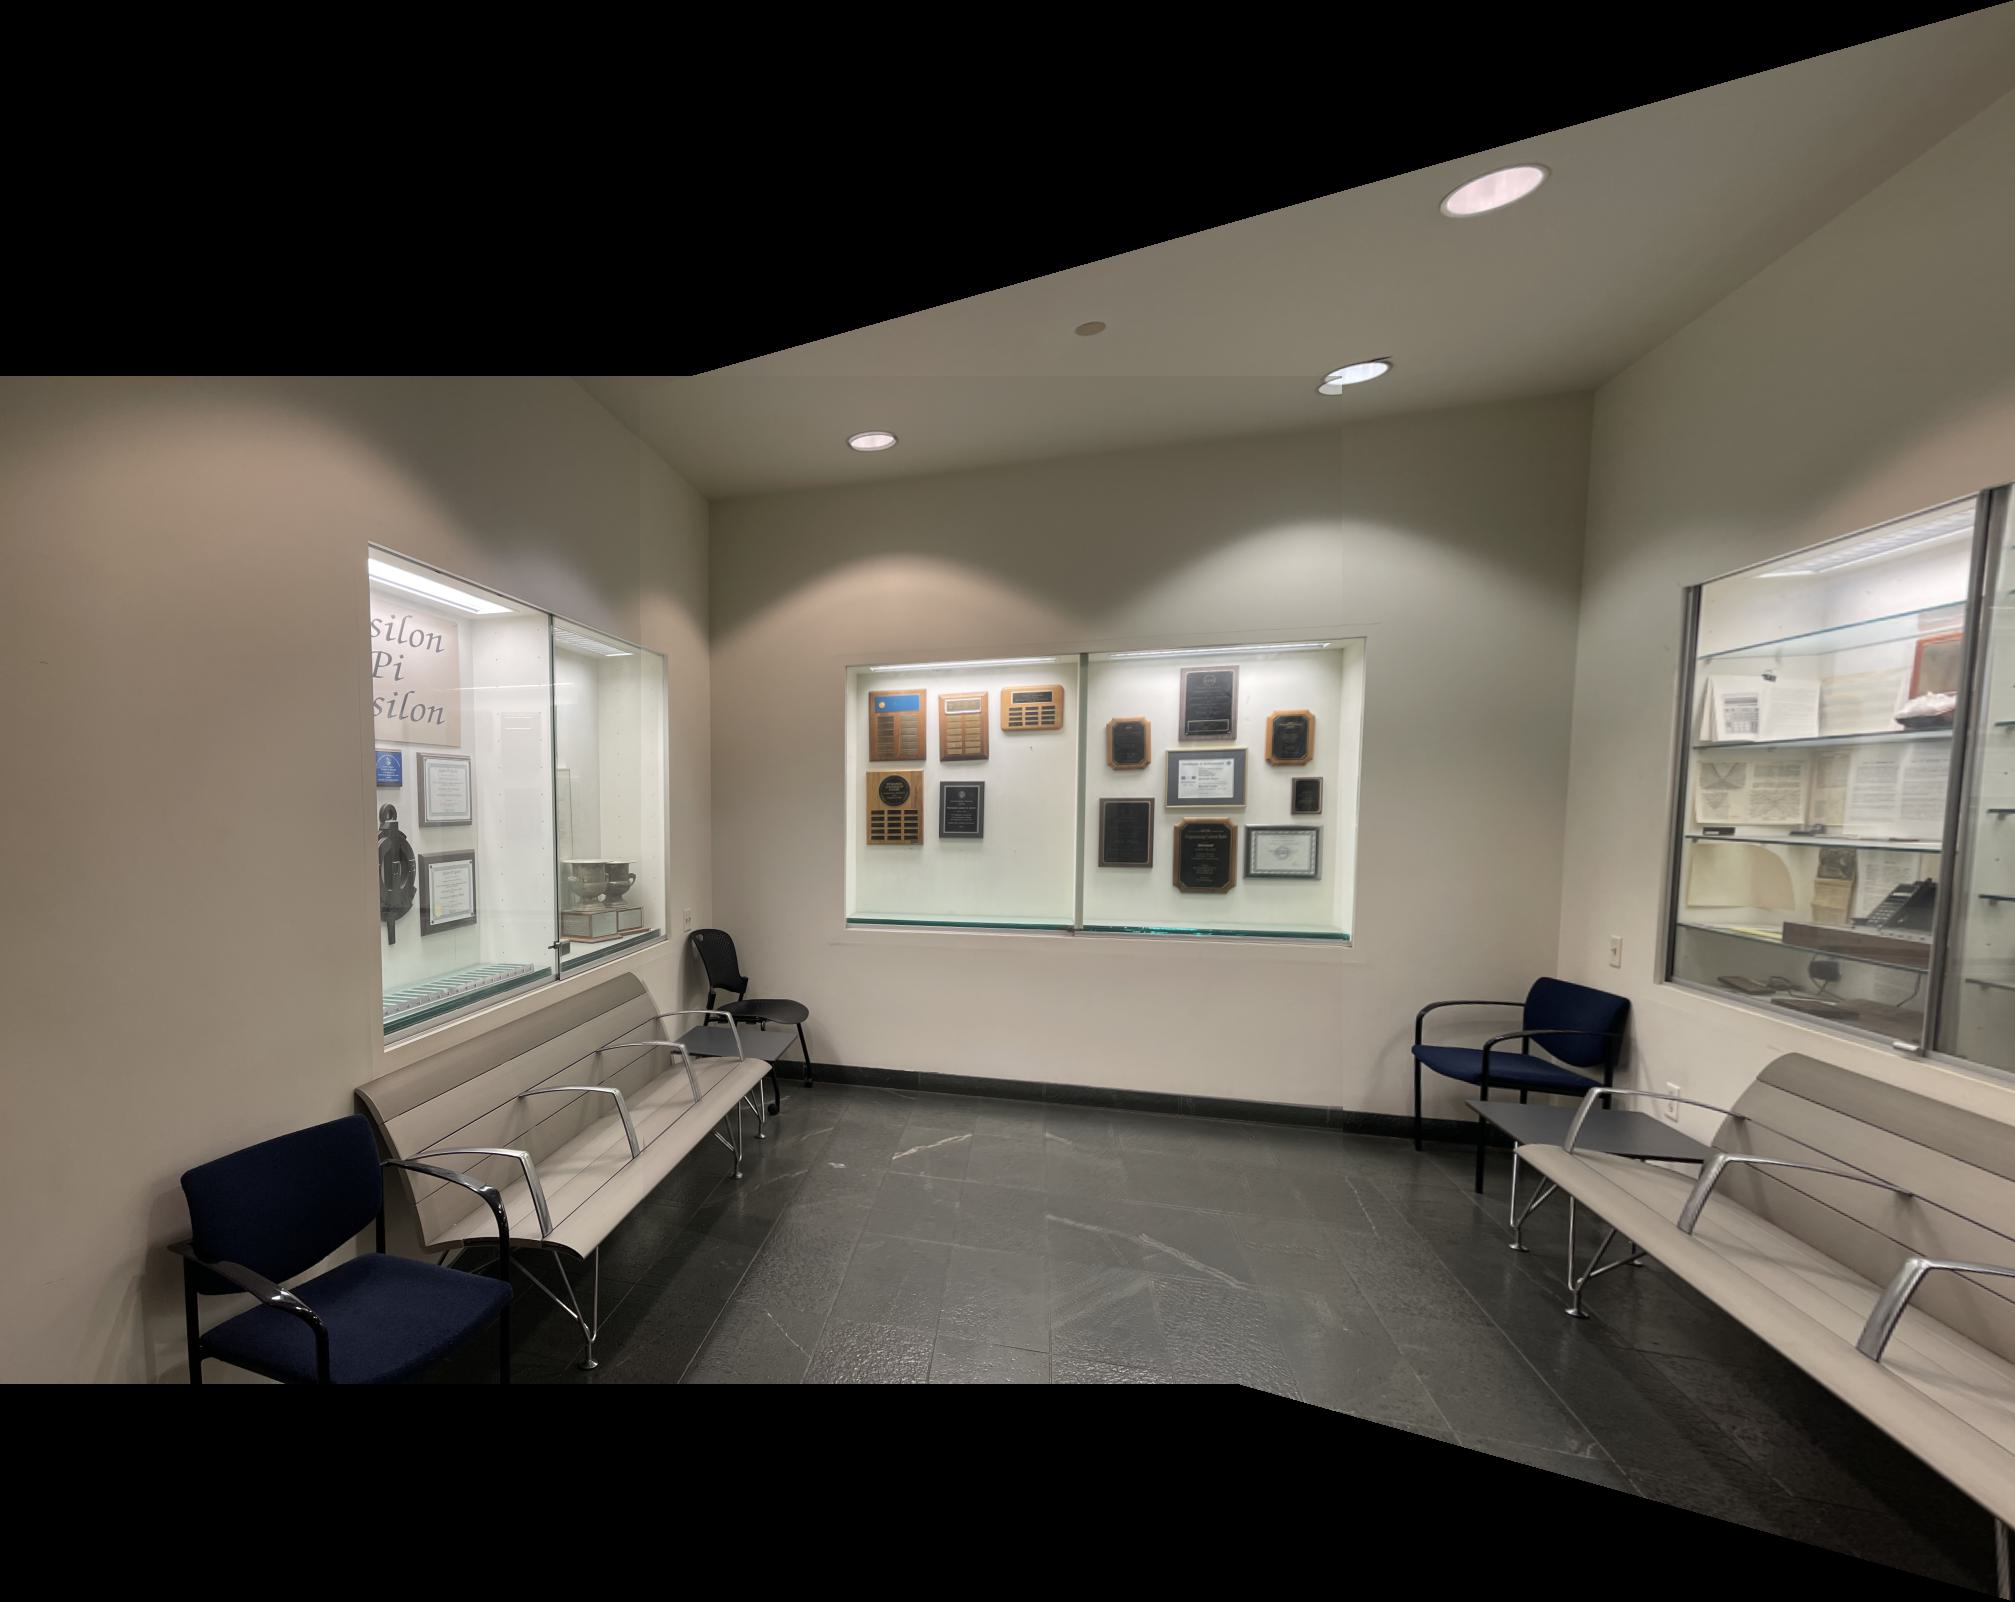
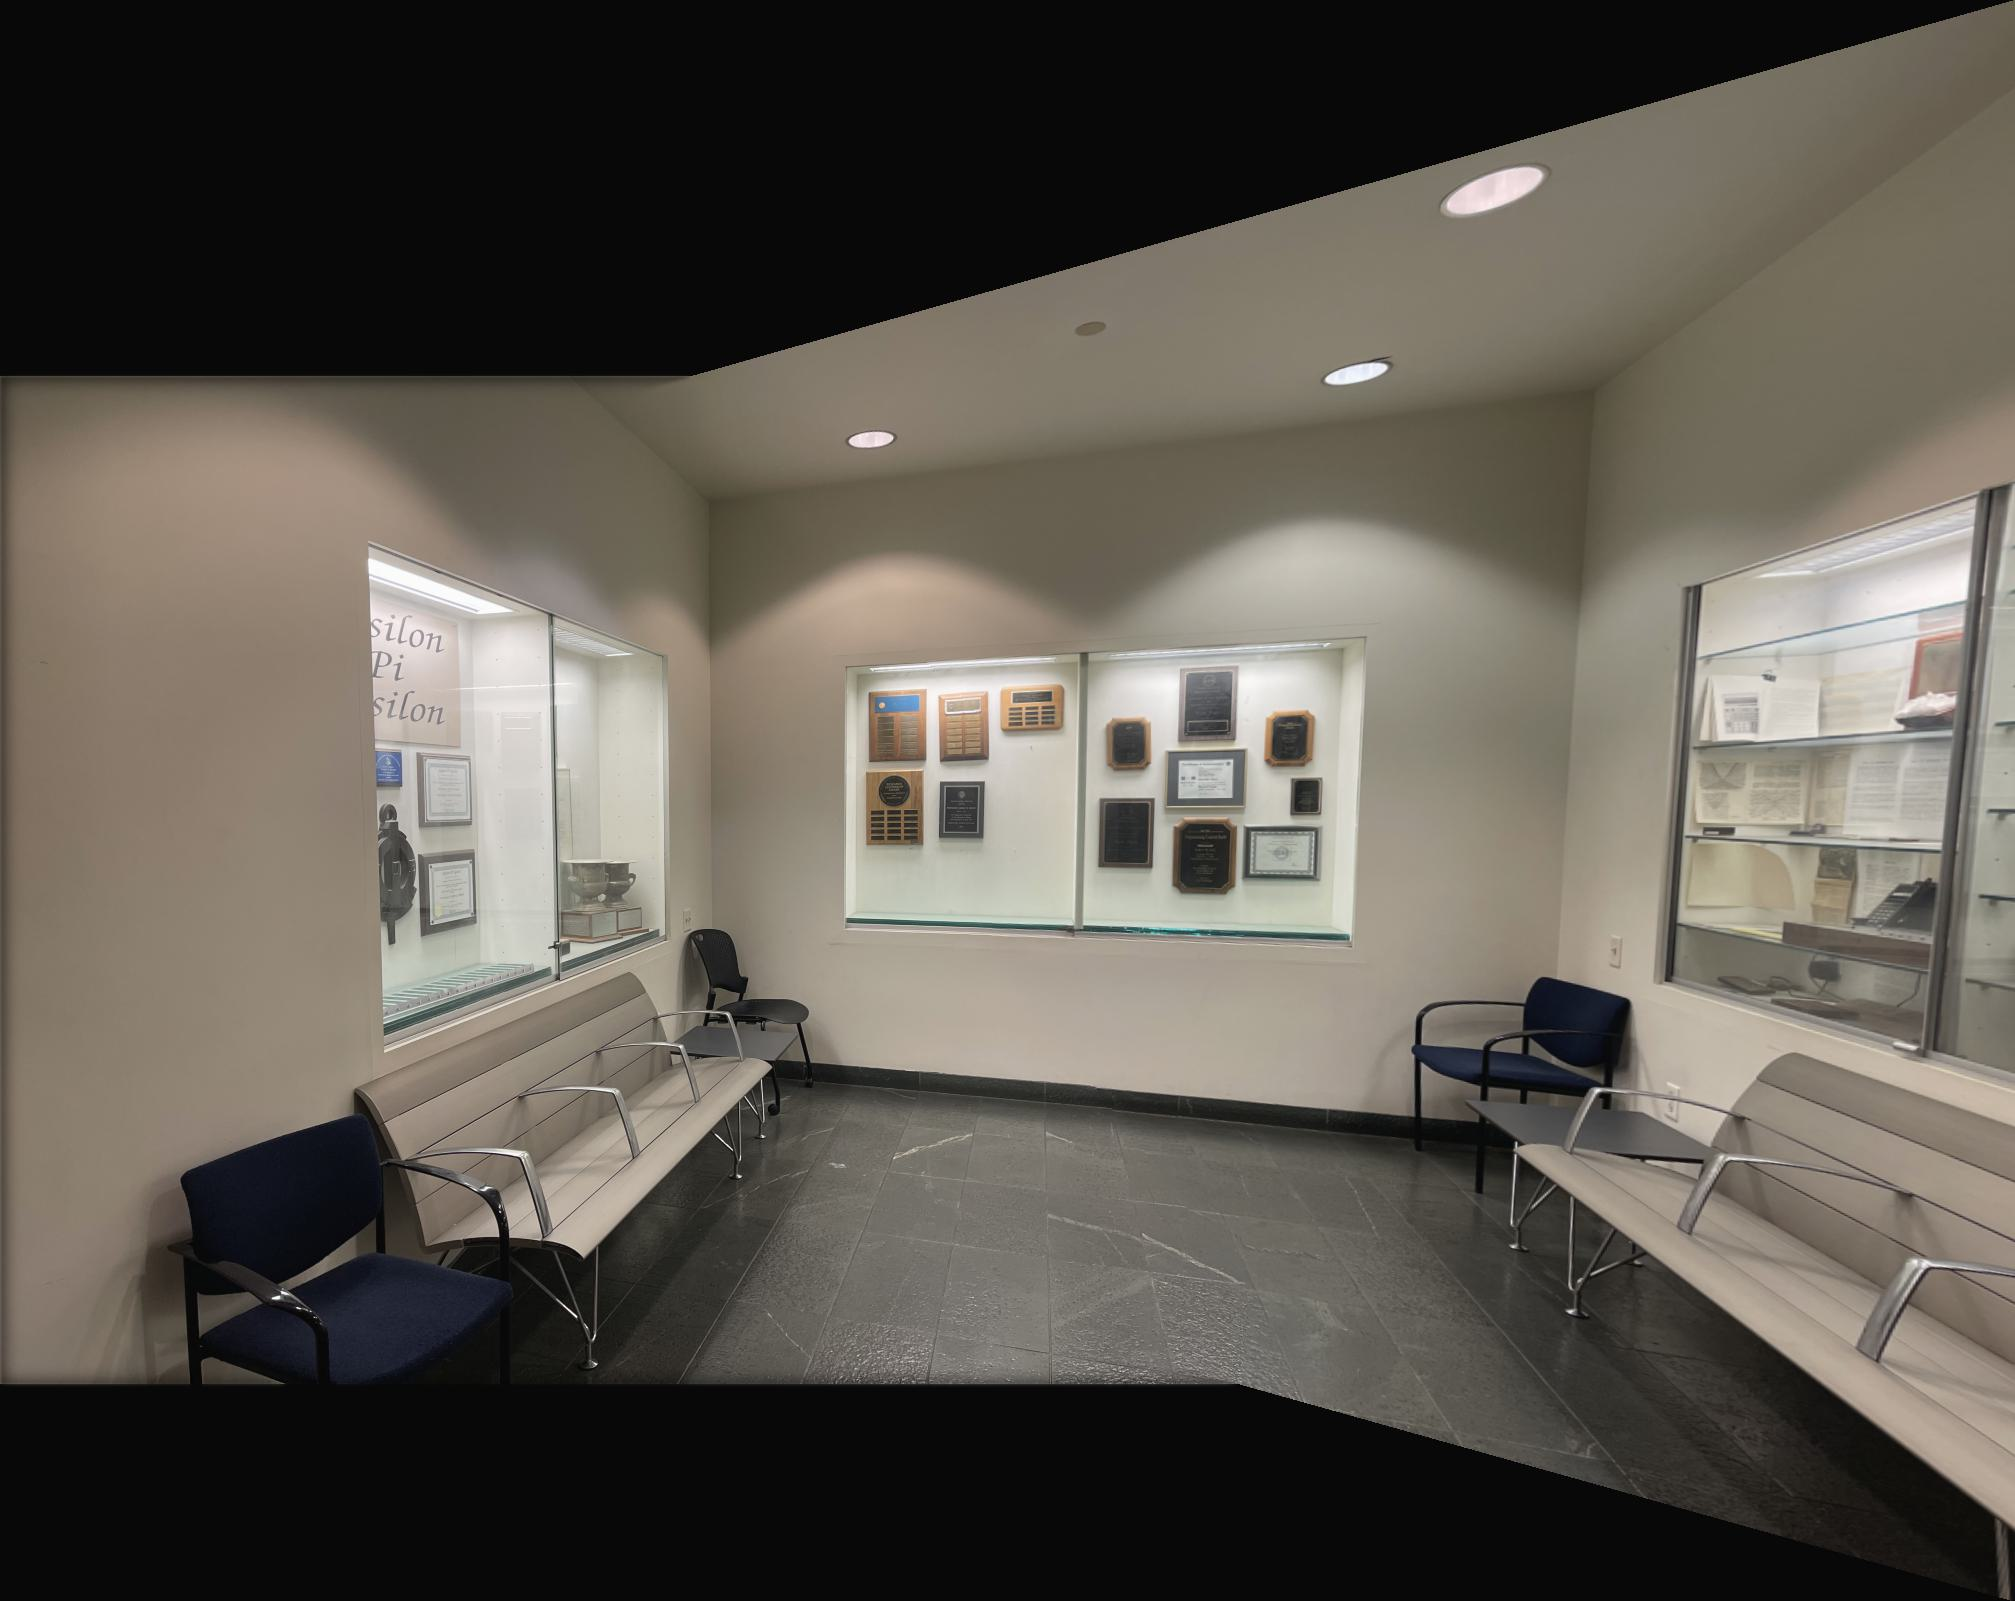
fixed blending for part a

diff --git a/4/index.html b/4/index.html
@@ -53,8 +53,11 @@
 					<header>
 						<h2>Introduction</h2>
 						<p>
-							This project explores using manually labelled corresponding points to warp photos so they are in the same
-							 orientation, and then stitching them together to create a larger image.  
+							This project explores creating image mosaics by warping images so they are in the same
+							 orientation, and then stitching them together to create a larger image. In the first part of this project,
+							I manually label corresponding points between images, compute homographies using these points, and then warp
+							the images together. In the second part of the project, I create image mosaics using correspondence points that 
+							are automatically selected, filtered, and matched. 
 						</p>
 					</header>
 				</section>
@@ -113,7 +116,7 @@
 
 					<section id="features" class="container special">
 						<header>
-							<h2>Taking Pictures</h2>
+							<h2>A: Taking Pictures</h2>
 							<p> The first part of this project is to take some pictures such that the transform between them is projective.
 								Ideally, I should have used a tripod. However, I did not have access to one, so I did my best to fix the position
 							of my phone camera by pinching my phone with one hand and rotating the phone with the other hand while snapping pictures.
@@ -175,7 +178,7 @@
 
 					<section id="features" class="container special">
 						<header>
-							<h2>Recover Homographies"</h2>
+							<h2>A: Recover Homographies</h2>
 							<p>In order to recover the homogrophy between images, I first manually labelled correspondence points between the images using 
 								the same tool as project 3. Because these correspondence must be precise, I tried to only label corners to get the exact matching 
 								point in both images. Here is an example of the labeled correspondence points:
@@ -216,7 +219,7 @@
 
 					<section id="features" class="container special">
 						<header>
-							<h2>Warp the Images</h2>
+							<h2>A: Warp the Images</h2>
 							<p> After recovering H, we can now warp the images. We matmul H^-1 with all indices of the new image we want to create
 								(the canvas that the final panoramic image will show up on). This will allow us to recover all the indices from the image
 								we want to warp, which we can then use to interpolate the colors from the image using the same function as project 3.   
@@ -246,23 +249,40 @@
 						</div>
 						
 						<header>
-						<h2>Blending Images into a Mosaic</h2>
-							<p> Finally, we can blend our images into a mosaic. I do this by choosing one of the images, i, to warp the other 
+						<h2>A: Blending Images into a Mosaic</h2>
+							<p> Finally, we can stitching our images into a mosaic. I do this by choosing one of the images, i, to warp the other 
 								image into the orientation of. I create a new image that is N * the shape of i, where N is the number of images 
 								that form the mosaic. This way I am pretty sure that the new image is large enough for the entire mosaic. I warp 
 								image i onto the center of the new image by first calculating the offset of its correspondence points, 
 								correspondence_offset = [(new_width - img_width)//2, (new_height - img_height)//2]. I find the correspondence points 
 								of img i on the new image, correspondences_middle_img, by adding correspondence_offset to the original correspondence points 
 								of img i. After warping img i to the new img, I can then warp the other images with the correct orientation onto a image the same size as new img 
-								by mapping those img's correspondence points to correspondences_middle_img. I then take 
-								all of these warped "new imgs" and then average them together to get the final mosaic. 
+								by mapping those img's correspondence points to correspondences_middle_img. 
+								
 							</p>
-							<p> In order to make the mosaic more seamless, we must normalize the colors of the final image. Without normalizing, 
+							
+							<p> In order to stitch these warped images together, I try two different approaches. </p>
+
+							<p>
+								<b>Approach 1: </b> For the first approach I tried, I take all of these warped "new imgs" and then average them together to get the final mosaic.
+								To make the mosaic more seamless, I normalize the colors of the final image. Without normalizing, 
 								the parts of the image with the most overlap are the brightest and the parts of the image with the least overlap are the 
 								dimmest. Thus, I create a mask such that every pixel has a value j, which is the number of images that overlap. For example,
 								j = 1 if there is one image coloring that pixel, j = 2 if there are two images overlapped for that pixel, etc. I then multiply
 								the final img by N/mask (where mask is nonzero) in order to brighten each pixel of the image inversely with how many overlaps 
 								there are. 
+							</p>
+
+							<p>
+								<b>Approach 2: </b>For the second approach I tried, I take the warped imgs and create a binary polygon mask for each of the imgs, where 
+								the image is 1 and the background is 0. I then use <code>cv2.distanceTransform</code> to create a distance transform mask for each of the polygons.
+								The closer each polygon pixel is to 0 (the background), the closer the distance transform mask pixel is to 0. The mask for blending two warped imgs together
+								is just distance_transform_mask1 > distance_transform_mask2: 1 where img1's pixel is further from the edge of the img and 0 where img2's pixel is further from the edge.
+								I then used this mask and the project 2 laplacian stack blending code to blend the images. 
+							</p>
+							<p>
+								Overall, approach 2 gives the imgs a less harsh seem, so that is the approach I went with, even though approach 2 makes the mosaic seem "greyer" than the 
+								mosaic stitched using approach 1. 
 							</p>
 							
 						</header>
@@ -270,21 +290,56 @@
 						<div class="row">
 							<article class="col-6 col-12-mobile special">
 								<a href="#" class="image featured"><img src="media/likashing1_transformed.jpg" alt="" /></a>
+								<header>
+									<h3> Left image of lawn right outside Li Ka Shing </h3>
+									<p></p>
+								</header>
 							</article>
 							<article class="col-6 col-12-mobile special">
 								<a href="#" class="image featured"><img src="media/likashing2_transformed.jpg" alt="" /></a>
+								<header><h3> Right image of lawn right outside Li Ka Shing </h3> <p></p></header>
 							</article>
 						</div>
 							<div class="row">
 								<article class="col-6 col-12-mobile special">
 									<a href="#" class="image featured"><img src="media/likashing_mask.png" alt="" /></a>
+									<header>
+										<h3><a href="#">Approach 1 Mask for Normalizing Color</a></h3>
+									</header>
 								</article>
 								<article class="col-6 col-12-mobile special">
-									<a href="#" class="image featured"><img src="media/mosaiced_likashing12.jpg" alt="" /></a>
-									<p> Note some blurriness likely due to imprecisely rotating the camera. </p>
+									<a href="#" class="image featured"><img src="media/mosaiced_likashing12.jpg" alt="" /></a>\
+									<header>
+										<h3><a href="#">Approach 1 Mosaic </a></h3>
+										<p> Note some blurriness likely due to imprecisely choosing correspondence points. </p>
+									</header>
 								</article>
-							
 						</div>
+
+						<div class="row">
+							<article class="col-6 col-12-mobile special">
+								<a href="#" class="image featured"><img src="media/likashing_distmask_left.png" alt="" /></a>
+								<header> <h3><a href="#"> Distance transform of left img </a></h3> <p></p></header>
+							</article>
+							<article class="col-6 col-12-mobile special">
+								<a href="#" class="image featured"><img src="media/likashing_distmask_center.png" alt="" /></a>
+								<header> <h3><a href="#">Distance transform of right img </a></h3> <p> </p> </header>
+							</article>
+						</div>
+
+						<div class="row">
+							<article class="col-6 col-12-mobile special">
+								<a href="#" class="image featured"><img src="media/likashing_blend_mask.png" alt="" /></a>
+								<header><h3> <a href="#">Approach 2 Mask for Blending </a> </h3> <p></p> </header>
+							</article>
+							<article class="col-6 col-12-mobile special">
+								<a href="#" class="image featured"><img src="media/mosaiced_likashing12_blended.jpg" alt="" /></a>
+								<header><h3> <a href="#">Approach 2 Mosaic </a></h3> <p></p> </header>
+							</article>
+						</div>
+
+						<br>
+						<b><header><p>More mosaiced imgs: </p></header></b>
 
 						<div class="row">
 							<article class="col-4 col-12-mobile special">
@@ -322,10 +377,6 @@
 							</article>
 						</div>
 
-						<p> The vertical images had a much harsher seam, likely due to it being harder to keep 
-							the camera in the same place when taking vertical pictures.
-						</p>
-
 						<div class="row">
 							<article class="col-4 col-12-mobile special">
 								<a href="#" class="image featured"><img src="media/va1_transformed.jpg" alt="" /></a>
@@ -347,21 +398,65 @@
 							</article>
 							<article class="col-4 col-12-mobile special">
 								<a href="#" class="image featured"><img src="media/mosaiced_vert_hall.jpg" alt="" /></a>
+								<header>
+									<p> Even though the seam is blurred, it is still noticeable due to the two stitched imgs being
+										slightly different colors. I suspect this could be because of my phone camera's color grading.
+									</p>
+								</header>
 							</article>
 						</div>
-
-
 						
 					</section>
+
+					<div class="wrapper style1">
+
+						<section id="features" class="container special">
+							<header>
+								<h2>B: Detecting Corner Features</h2>
+								<p>Now that we can create image mosaics by manually selecting correspondence points, let's try creating
+									an image mosaic through automatically choosing correspondence to save some clicking time. The first step 
+									to do this is to use the Harris corner detection algorithm, which calculates h, the Harris corner response
+									for each pixel, and coords, which are the coordinates of the corners in the image (the local maxes of h values.) 
+								</p>
+							</header>
+							<div class="row">
+								<article class="col-6 col-12-mobile special">
+									<a href="#" class="image featured"><img src="media/office_horiz_corres1.png" alt="" /></a>
+								</article>
+								<article class="col-6 col-12-mobile special">
+									<a href="#" class="image featured"><img src="media/office_horiz_corres.png" alt="" /></a>
+								</article>
+							</div>
+	
+							<header>
+								<p>Then, using these corresponding images, we can recover H that transforms a point from the original image, (p1, p2),
+									to a warped point, (q1, q2):
+								</p>
+							</header>
+	
+							<div class="row">
+								<article class="col-6 col-12-mobile special">
+									<a href="#" class="image featured"><img src="media/H__calc_1.png" alt="" /></a>
+								</article>
+								<article class="col-6 col-12-mobile special">
+									<a href="#" class="image featured"><img src="media/H_calc_2.png" alt="" /></a>
+									<p> For every pair of correspondence points, stack two rows to A and 2 rows to b following the same format.
+										Since there will be more correspondence points and number of variables, we can use least sqaures to solve 
+										for a-h.
+									</p>
+								</article>
+							</div>
+						</section>
+	
 
 				</div>
 
 				
 
 						</div>
-						<hr />
+						<!-- <hr />
 						<div class="row">
-							<div class="col-12">
+							<div class="col-12"> -->
 
 								<!-- Contact -->
 									<!-- <section class="contact">
